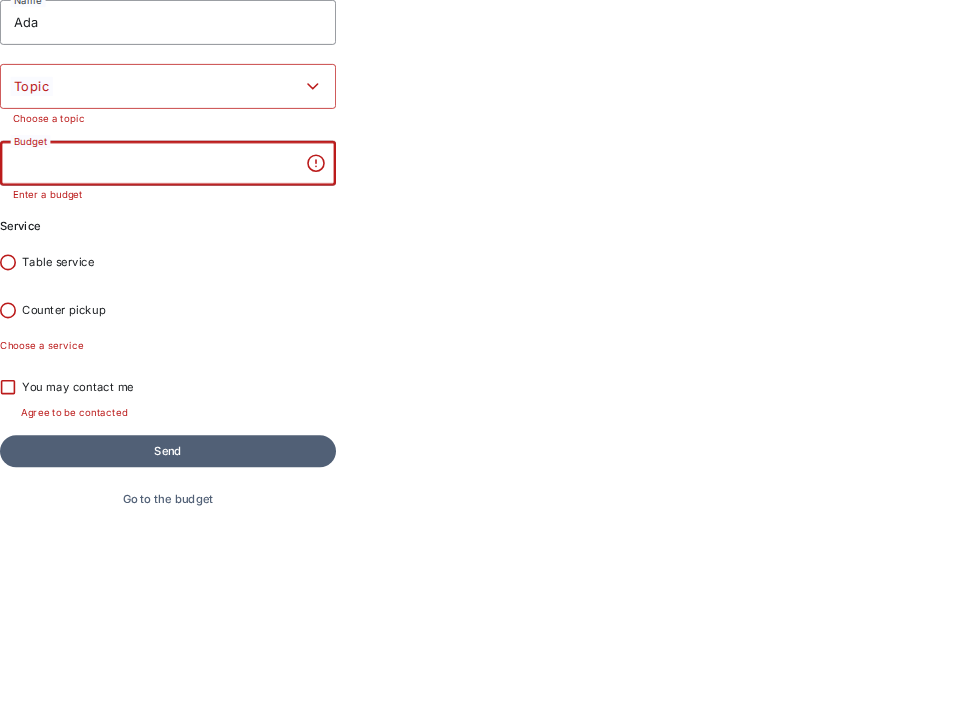
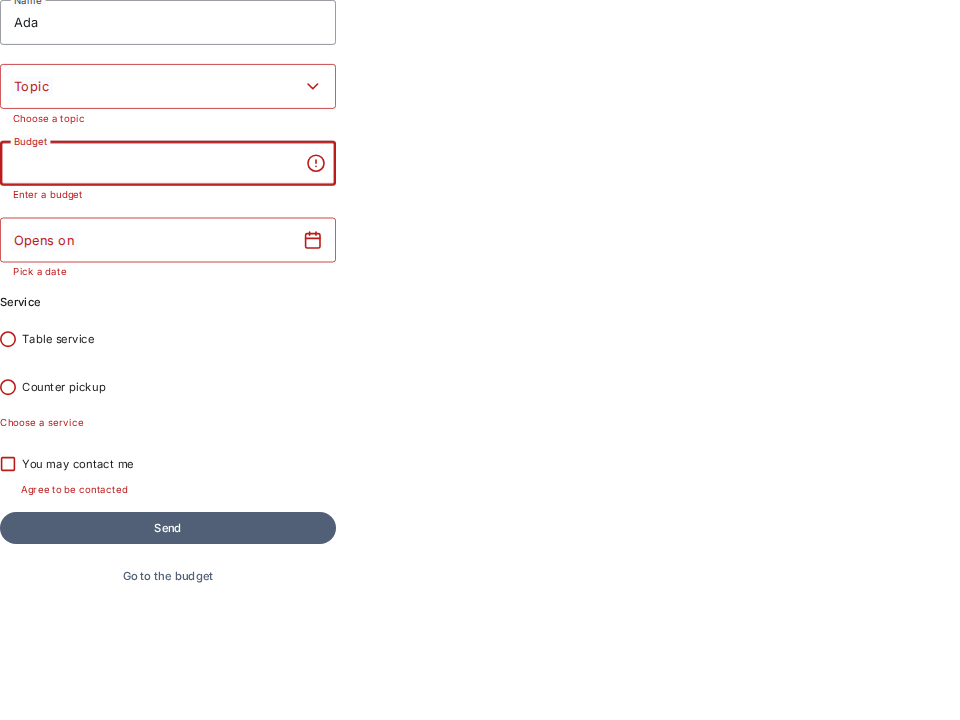
Lists and trees draw where a drop will land, and the form adapter binds a date
GridList and Tree took dragAndDropHooks and drew nothing while something
was dragged over them: React Aria's drop indicator is rendered unstyled.
Two of the baseline's builders copied the drop zone's classes by grep. A
drop between two rows now shows a primary line, and a row, a list or a tree
that is dropped onto takes the drop zone's outline and tint. The keyboard
reorder test reads the line.

The react-hook-form adapter had no date field: three builders bound the
date picker by hand, converting to and from an ISO string. FormDatePicker
does that: the form value is the ISO date string, or undefined.

diff --git a/adapters/react-hook-form.tsx b/adapters/react-hook-form.tsx
@@ -25,6 +25,7 @@
  *   <FormNumberField control={form.control} name="price" label="Price"
  *     formatOptions={{ style: "currency", currency: "EUR" }} />
  *   <FormPhoneField control={form.control} name="phone" label="Phone" defaultCountry="FR" />
+ *   <FormDatePicker control={form.control} name="opensOn" label="Opens on" />
  *   <FormImageField control={form.control} name="image" label="Photo" maxSize={2_000_000} />
  *   <FormSelect control={form.control} name="tableId" label="Table" items={tables}>
  *     {(t) => <SelectItem id={t.id} label={t.name} />}
@@ -41,6 +42,7 @@
  *   </FormComboBox>
  */
 
+import { type CalendarDate, parseDate } from "@internationalized/date";
 import type { Key } from "react-aria-components";
 import {
   Controller,
@@ -58,6 +60,7 @@ import {
 } from "../components/Checkbox";
 import { ChipGroup, type ChipGroupProps } from "../components/Chip";
 import { ComboBox, type ComboBoxProps } from "../components/ComboBox";
+import { DatePicker, type DatePickerProps } from "../components/DatePicker";
 import { NumberField, type NumberFieldProps } from "../components/NumberField";
 import { ImageField, type ImageFieldProps } from "../components/ImageField";
 import { PhoneField, type PhoneFieldProps } from "../components/PhoneField";
@@ -184,6 +187,57 @@ export function FormNumberField<TValues extends FieldValues>({
             value={typeof field.value === "number" ? field.value : NaN}
             onChange={(value) =>
               field.onChange(Number.isNaN(value) ? undefined : value)
+            }
+            onBlur={field.onBlur}
+            isInvalid={fieldState.invalid}
+            errorMessage={fieldState.error?.message}
+          />
+        </>
+      )}
+    />
+  );
+}
+
+/** A calendar date from the form's ISO string; nothing for anything else. */
+function toDate(value: unknown): CalendarDate | null {
+  if (typeof value !== "string" || !value) return null;
+  try {
+    return parseDate(value);
+  } catch {
+    return null;
+  }
+}
+
+/**
+ * Date picker. The form value is the ISO date string (`"2026-06-15"`), the
+ * form a server and `z.iso.date()` take, or `undefined` while no date is
+ * picked. Every prop of the kit's `DatePicker` passes through (`layout`,
+ * `minValue`, `isDateUnavailable`), given as calendar dates.
+ */
+export function FormDatePicker<TValues extends FieldValues>({
+  control,
+  name,
+  rules,
+  ...props
+}: Bound<TValues> &
+  Omit<
+    DatePickerProps<CalendarDate>,
+    "value" | "defaultValue" | "onChange" | "onBlur" | "name"
+  >) {
+  return (
+    <Controller
+      control={control}
+      name={name}
+      rules={rules}
+      render={({ field, fieldState }) => (
+        <>
+          <FocusAnchor fieldRef={field.ref} />
+          <DatePicker
+            {...props}
+            name={field.name}
+            value={toDate(field.value)}
+            onChange={(date) =>
+              field.onChange(date ? date.toString() : undefined)
             }
             onBlur={field.onBlur}
             isInvalid={fieldState.invalid}

diff --git a/components/GridList.tsx b/components/GridList.tsx
@@ -12,10 +12,23 @@ import { composeTailwindRenderProps } from "../render-props";
 import { focusRing, tv } from "../utils";
 import IconButton from "./IconButton";
 
+// What a drag shows. The place between two rows where the drop will land is
+// React Aria's drop indicator, which it renders unstyled: a 2dp line on
+// `primary`. A row, or the whole list, that is dropped *onto* takes the
+// drop zone's look: a `primary` outline and its 8% tint.
+const dropLine =
+  "[&_.react-aria-DropIndicator[data-drop-target]]:outline-1 [&_.react-aria-DropIndicator[data-drop-target]]:outline-solid [&_.react-aria-DropIndicator[data-drop-target]]:outline-primary";
+const droppedOnto =
+  "data-drop-target:outline-2 data-drop-target:-outline-offset-2 data-drop-target:outline-solid data-drop-target:outline-primary data-drop-target:bg-primary/8";
+
 /**
  * The collection an MD3 list is built on: React Aria `GridList`, which gives
  * the rows their keyboard navigation, selection and actions. It draws
  * nothing of its own; render a `ListItem` inside each `GridListItem`.
+ *
+ * With `dragAndDropHooks` it shows where a drop will land: a `primary` line
+ * between two rows, and a `primary` outline with its tint on a row, or on
+ * the list, that is dropped onto.
  *
  * Spec: https://m3.material.io/components/lists/{overview,specs,guidelines,accessibility}
  */
@@ -29,7 +42,7 @@ export function GridList<T extends object>({
       {...props}
       className={composeTailwindRenderProps(
         props.className,
-        "relative overflow-auto",
+        `relative overflow-auto ${dropLine} ${droppedOnto}`,
       )}
     >
       {children}
@@ -38,7 +51,7 @@ export function GridList<T extends object>({
 }
 
 const itemStyles = tv({
-  base: [focusRing(), "group/grid-list-item"],
+  base: [focusRing(), "group/grid-list-item", droppedOnto],
 });
 
 /**

diff --git a/components/Tree.tsx b/components/Tree.tsx
@@ -15,11 +15,24 @@ import { composeTailwindRenderProps } from "../render-props";
 import { focusRing, tv } from "../utils";
 import { Checkbox } from "./Checkbox";
 
+// What a drag shows, as in `GridList`: a 2dp `primary` line where a drop
+// will land between two rows, and the drop zone's outline and tint on a row
+// or a tree that is dropped onto.
+const dropLine =
+  "[&_.react-aria-DropIndicator[data-drop-target]]:outline-1 [&_.react-aria-DropIndicator[data-drop-target]]:outline-solid [&_.react-aria-DropIndicator[data-drop-target]]:outline-primary";
+const droppedOnto =
+  "data-drop-target:outline-2 data-drop-target:-outline-offset-2 data-drop-target:outline-solid data-drop-target:outline-primary data-drop-target:bg-primary/8";
+
 const styles = tv({
   slots: {
-    tree: "relative flex flex-col overflow-auto outline-none",
+    tree: [
+      "relative flex flex-col overflow-auto outline-none",
+      dropLine,
+      droppedOnto,
+    ],
     item: [
       focusRing(),
+      droppedOnto,
       "group/tree-item relative flex cursor-default items-center text-on-surface -outline-offset-2",
       "data-[href]:cursor-pointer data-selected:bg-secondary-container data-selected:text-on-secondary-container",
       "data-disabled:text-on-surface/38",

diff --git a/stories/text-inputs/Form.stories.tsx b/stories/text-inputs/Form.stories.tsx
@@ -10,6 +10,7 @@ import {
   FormCheckboxGroup,
   FormChipGroup,
   FormComboBox,
+  FormDatePicker,
   FormImageField,
   FormNumberField,
   FormPhoneField,
@@ -254,6 +255,7 @@ type Contact = {
   name: string;
   topic: string;
   budget: number;
+  opensOn: string;
   service: string;
   consent: boolean;
 };
@@ -286,6 +288,12 @@ function RulesAndFocus() {
         name="budget"
         label="Budget"
         rules={{ required: "Enter a budget" }}
+      />
+      <FormDatePicker
+        control={form.control}
+        name="opensOn"
+        label="Opens on"
+        rules={{ required: "Pick a date" }}
       />
       <FormRadioGroup
         control={form.control}
@@ -328,6 +336,7 @@ export const RulesAndFocusOnTheFirstError: Story = {
     const consent = canvas.getByRole("checkbox", { name: "You may contact me" });
     await expect(consent).toHaveAccessibleDescription("Agree to be contacted");
     await expect(canvas.getByText("Choose a topic")).toBeVisible();
+    await expect(canvas.getByText("Pick a date")).toBeVisible();
     await waitFor(() =>
       expect(canvas.getByRole("textbox", { name: /Name/ })).toHaveFocus(),
     );

diff --git a/stories/interactions/Containment.stories.tsx b/stories/interactions/Containment.stories.tsx
@@ -895,6 +895,12 @@ export const GridListRowIsMovedByTheKeyboard: Story = {
       await waitFor(() => expect(place()).not.toBe(before));
     }
     await expect(place()).toBe("Insert after Desserts");
+    // Where the row will land is drawn: a line between two rows.
+    const line = canvasElement.querySelector(
+      ".react-aria-DropIndicator[data-drop-target]",
+    )!;
+    await expect(getComputedStyle(line).outlineStyle).toBe("solid");
+    await expect(getComputedStyle(line).outlineWidth).toBe("1px");
     await userEvent.keyboard("{Enter}");
 
     await waitFor(() =>
